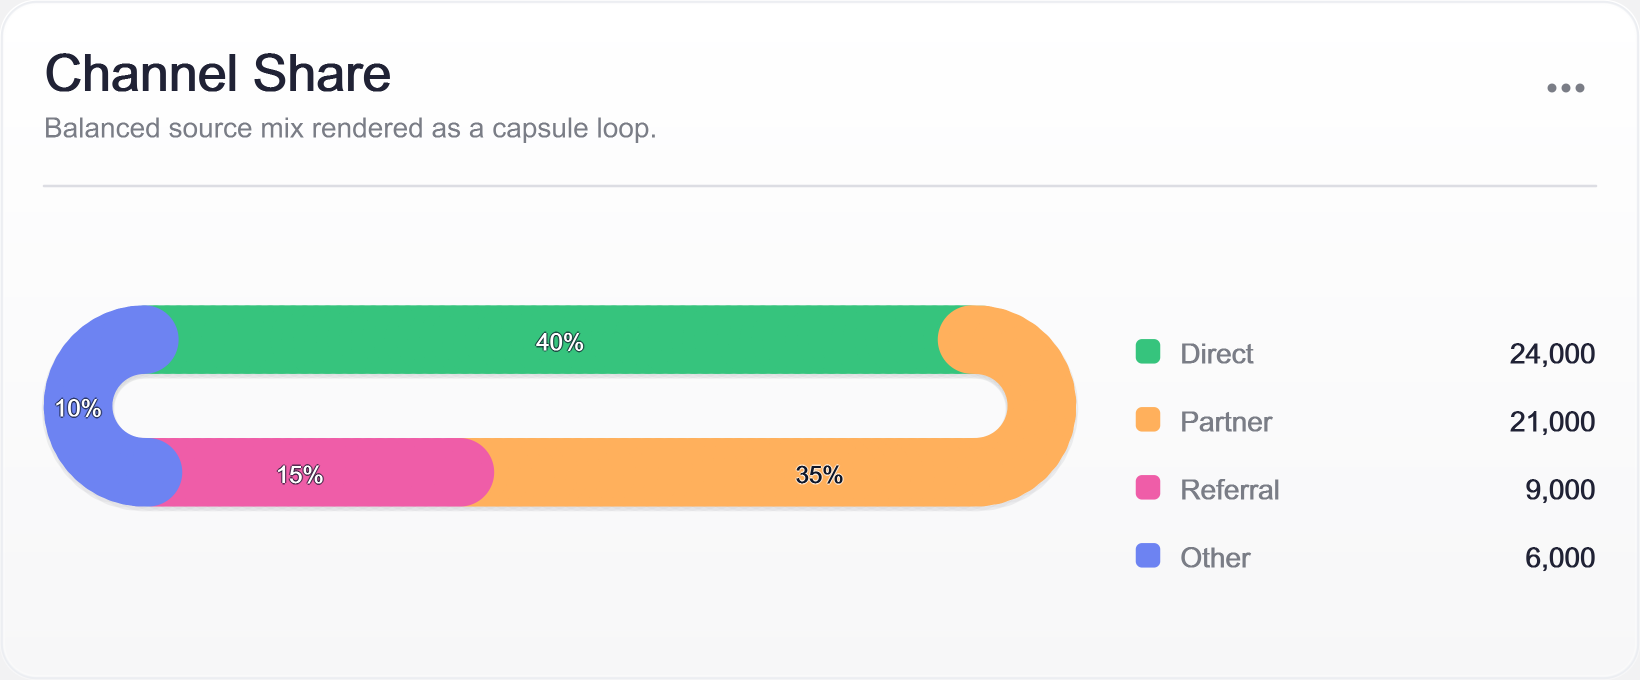
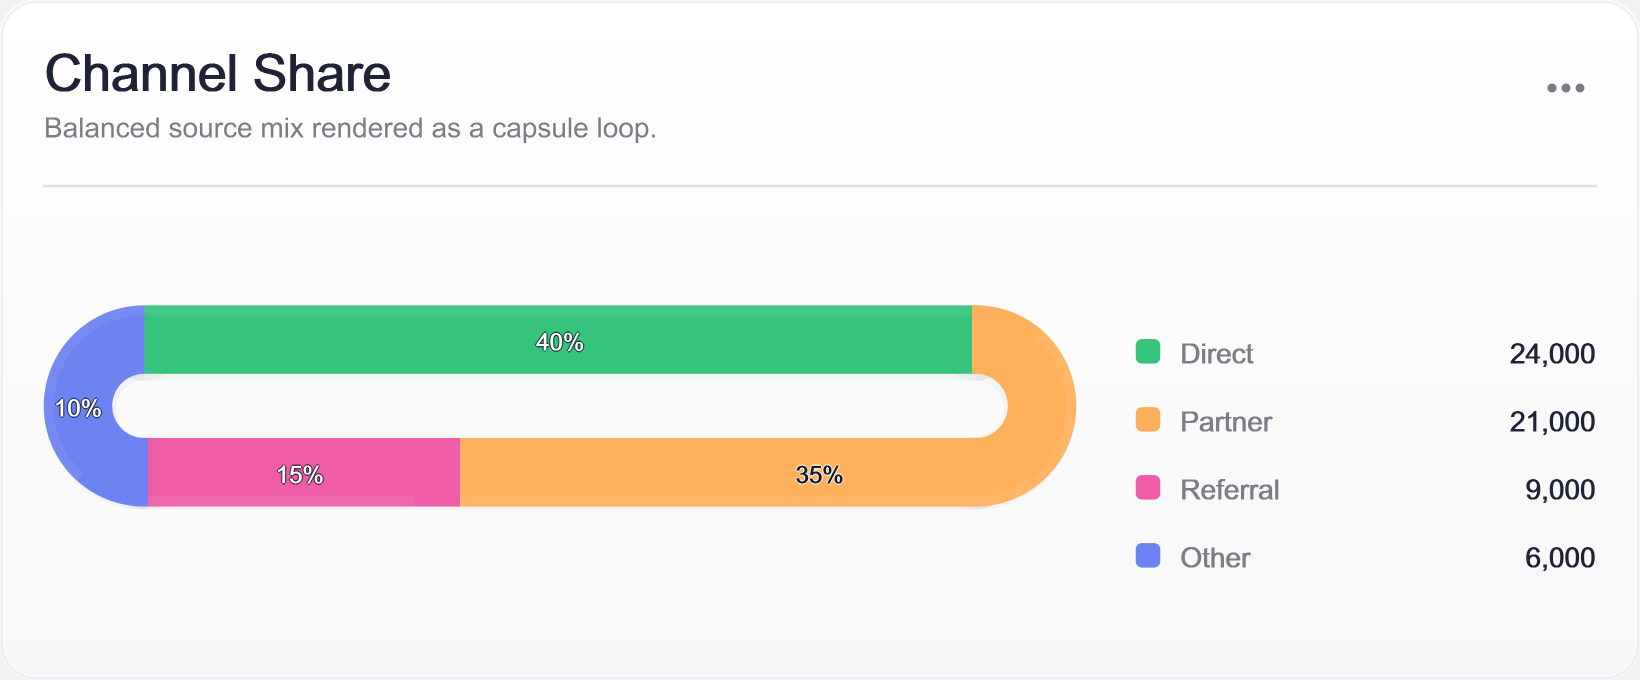
Polish capsule loop rendering

diff --git a/ChartForgeX/VisualBlocks/SvgVisualBlockRenderer.CapsuleLoop.cs b/ChartForgeX/VisualBlocks/SvgVisualBlockRenderer.CapsuleLoop.cs
@@ -36,10 +36,10 @@ public sealed partial class SvgVisualBlockRenderer {
 
     private static void RenderCapsuleTrack(SvgMarkupWriter writer, SegmentedMetricBlock card, double x, double y, double width, double height, double stroke) {
         var theme = card.Options.Theme;
-        var points = VisualBlockRendering.CapsuleLoopPoints(x, y, width, height, stroke, 0, 1, 360);
+        var path = CapsuleLoopPath(x, y, width, height, stroke, 0, 1);
         writer.StartElement("path")
             .Attribute("data-cfx-role", "segmented-metric-capsule-track-shadow")
-            .Attribute("d", PolylinePath(points))
+            .Attribute("d", path)
             .Attribute("fill", "none")
             .Attribute("stroke", theme.MutedText.WithAlpha(14).ToCss())
             .Attribute("stroke-width", stroke + 2)
@@ -49,7 +49,7 @@ public sealed partial class SvgVisualBlockRenderer {
             .EndEmptyElement().Line();
         writer.StartElement("path")
             .Attribute("data-cfx-role", "segmented-metric-capsule-track")
-            .Attribute("d", PolylinePath(points))
+            .Attribute("d", path)
             .Attribute("fill", "none")
             .Attribute("stroke", theme.CardBackground.WithAlpha(170).ToCss())
             .Attribute("stroke-width", stroke)
@@ -62,11 +62,12 @@ public sealed partial class SvgVisualBlockRenderer {
         var theme = card.Options.Theme;
         var slices = VisualBlockRendering.SegmentedSlices(card);
         foreach (var slice in slices) {
+            if (slice.Share <= 0) continue;
             var color = VisualBlockRendering.SegmentedItemColor(theme, slice.Item, slice.Index);
             var start = Math.Max(0, slice.Start - 0.002);
             var end = Math.Min(1, slice.End + 0.002);
-            var points = VisualBlockRendering.CapsuleLoopPoints(x, y, width, height, stroke, start, end, 360);
-            if (points.Count < 2) continue;
+            var path = CapsuleLoopPath(x, y, width, height, stroke, start, end);
+            if (path.Length == 0) continue;
             writer.StartElement("path")
                 .Attribute("data-cfx-role", "segmented-metric-capsule-segment")
                 .Attribute("data-cfx-label", slice.Item.Label)
@@ -74,11 +75,21 @@ public sealed partial class SvgVisualBlockRenderer {
                 .Attribute("data-cfx-share", slice.Share)
                 .Attribute("data-cfx-start", slice.Start)
                 .Attribute("data-cfx-end", slice.End)
-                .Attribute("d", PolylinePath(points))
+                .Attribute("d", path)
                 .Attribute("fill", "none")
                 .Attribute("stroke", color.ToCss())
                 .Attribute("stroke-width", stroke)
-                .Attribute("stroke-linecap", "round")
+                .Attribute("stroke-linecap", "butt")
+                .Attribute("stroke-linejoin", "round")
+                .EndEmptyElement().Line();
+            writer.StartElement("path")
+                .Attribute("data-cfx-role", "segmented-metric-capsule-segment-sheen")
+                .Attribute("data-cfx-label", slice.Item.Label)
+                .Attribute("d", path)
+                .Attribute("fill", "none")
+                .Attribute("stroke", VisualBlockRendering.CapsuleLoopSheenColor(color).ToCss())
+                .Attribute("stroke-width", VisualBlockRendering.CapsuleLoopSheenStroke(stroke))
+                .Attribute("stroke-linecap", "butt")
                 .Attribute("stroke-linejoin", "round")
                 .EndEmptyElement().Line();
             if (slice.Share >= 0.075) RenderCapsuleSegmentLabel(writer, card, slice, color, x, y, width, height, stroke);
@@ -108,17 +119,6 @@ public sealed partial class SvgVisualBlockRenderer {
             .EndElement().Line();
     }
 
-    private static string PolylinePath(IReadOnlyList<ChartPoint> points) {
-        if (points.Count == 0) return string.Empty;
-        var builder = new System.Text.StringBuilder();
-        for (var i = 0; i < points.Count; i++) {
-            builder.Append(i == 0 ? "M " : " L ");
-            builder.Append(F(points[i].X)).Append(' ').Append(F(points[i].Y));
-        }
-
-        return builder.ToString();
-    }
-
     private static void RenderCapsuleLegend(SvgMarkupWriter writer, SegmentedMetricBlock card, double x, double y, double width, double height) {
         var theme = card.Options.Theme;
         var rowHeight = Math.Max(26, Math.Min(34, height / Math.Max(1, card.Items.Count)));
@@ -137,4 +137,25 @@ public sealed partial class SvgVisualBlockRenderer {
 
         writer.EndElement().Line();
     }
+
+    private static string CapsuleLoopPath(double x, double y, double width, double height, double stroke, double start, double end) {
+        var parts = VisualBlockRendering.CapsuleLoopParts(x, y, width, height, stroke, start, end);
+        if (parts.Count == 0) return string.Empty;
+        var builder = new System.Text.StringBuilder();
+        var first = parts[0].StartPoint;
+        builder.Append("M ").Append(F(first.X)).Append(' ').Append(F(first.Y));
+        foreach (var part in parts) {
+            if (part.Kind == CapsuleLoopPartKind.Line) {
+                builder.Append(" L ").Append(F(part.EndPoint.X)).Append(' ').Append(F(part.EndPoint.Y));
+            } else {
+                var sweep = Math.Abs(part.EndAngle - part.StartAngle);
+                builder.Append(" A ").Append(F(part.Radius)).Append(' ').Append(F(part.Radius)).Append(" 0 ")
+                    .Append(sweep > Math.PI ? "1" : "0").Append(" 1 ")
+                    .Append(F(part.EndPoint.X)).Append(' ').Append(F(part.EndPoint.Y));
+            }
+        }
+
+        return builder.ToString();
+    }
+
 }

diff --git a/ChartForgeX/VisualBlocks/VisualBlockRendering.cs b/ChartForgeX/VisualBlocks/VisualBlockRendering.cs
@@ -478,6 +478,50 @@ internal static partial class VisualBlockRendering {
         return new ChartPoint(left + Math.Cos(leftAngle) * radius, centerY + Math.Sin(leftAngle) * radius);
     }
 
+    public static IReadOnlyList<CapsuleLoopPart> CapsuleLoopParts(double x, double y, double width, double height, double stroke, double start, double end) {
+        start = Math.Max(0, Math.Min(1, start));
+        end = Math.Max(0, Math.Min(1, end));
+        var parts = new List<CapsuleLoopPart>();
+        if (width <= stroke || height <= stroke || end <= start) return parts;
+        var radius = Math.Max(1, (height - stroke) / 2);
+        var left = x + height / 2;
+        var right = x + Math.Max(height / 2, width - height / 2);
+        var top = y + stroke / 2;
+        var bottom = y + Math.Max(stroke / 2, height - stroke / 2);
+        var centerY = y + height / 2;
+        var straight = Math.Max(0, right - left);
+        var arc = Math.PI * radius;
+        var total = straight * 2 + arc * 2;
+        var boundaries = new[] { 0, straight / total, (straight + arc) / total, (straight + arc + straight) / total, 1 };
+        for (var i = 0; i < 4; i++) {
+            var a = Math.Max(start, boundaries[i]);
+            var b = Math.Min(end, boundaries[i + 1]);
+            if (b <= a) continue;
+            parts.Add(CapsuleLoopPartFromRange(i, a * total, b * total, left, right, top, bottom, centerY, radius, straight, arc));
+        }
+
+        return parts;
+    }
+
+    private static CapsuleLoopPart CapsuleLoopPartFromRange(int index, double startDistance, double endDistance, double left, double right, double top, double bottom, double centerY, double radius, double straight, double arc) {
+        if (index == 0) return CapsuleLoopPart.Line(new ChartPoint(left + startDistance, top), new ChartPoint(left + endDistance, top));
+        if (index == 1) {
+            var startAngle = -Math.PI / 2 + (startDistance - straight) / radius;
+            var endAngle = -Math.PI / 2 + (endDistance - straight) / radius;
+            return CapsuleLoopPart.Arc(new ChartPoint(right + Math.Cos(startAngle) * radius, centerY + Math.Sin(startAngle) * radius), new ChartPoint(right + Math.Cos(endAngle) * radius, centerY + Math.Sin(endAngle) * radius), right, centerY, radius, startAngle, endAngle);
+        }
+
+        if (index == 2) {
+            var startOffset = startDistance - straight - arc;
+            var endOffset = endDistance - straight - arc;
+            return CapsuleLoopPart.Line(new ChartPoint(right - startOffset, bottom), new ChartPoint(right - endOffset, bottom));
+        }
+
+        var leftStartAngle = Math.PI / 2 + (startDistance - straight - arc - straight) / radius;
+        var leftEndAngle = Math.PI / 2 + (endDistance - straight - arc - straight) / radius;
+        return CapsuleLoopPart.Arc(new ChartPoint(left + Math.Cos(leftStartAngle) * radius, centerY + Math.Sin(leftStartAngle) * radius), new ChartPoint(left + Math.Cos(leftEndAngle) * radius, centerY + Math.Sin(leftEndAngle) * radius), left, centerY, radius, leftStartAngle, leftEndAngle);
+    }
+
     public static string ShortSegmentLabel(string value) {
         var start = value.LastIndexOf('(');
         var end = value.LastIndexOf(')');
@@ -491,6 +535,12 @@ internal static partial class VisualBlockRendering {
 
     public static ChartColor CapsuleLoopLabelHalo(ChartColor foreground) =>
         ChartColorMath.TextOnBackground(foreground, 0.70).WithAlpha(112);
+
+    public static ChartColor CapsuleLoopSheenColor(ChartColor color) =>
+        ChartColorMath.Blend(color, ChartColor.White, 0.28).WithAlpha(58);
+
+    public static double CapsuleLoopSheenStroke(double stroke) =>
+        Math.Max(2.4, stroke * 0.14);
 
     public static double WorkloadRatio(WorkloadListRow row) => SegmentRatio(row.Value, row.Maximum);
 

diff --git a/ChartForgeX/VisualBlocks/VisualBlockRendering.SegmentedLayouts.cs b/ChartForgeX/VisualBlocks/VisualBlockRendering.SegmentedLayouts.cs
@@ -214,6 +214,36 @@ internal readonly struct SegmentedStackSegment {
     public double Share { get; }
 }
 
+internal enum CapsuleLoopPartKind {
+    Line,
+    Arc
+}
+
+internal readonly struct CapsuleLoopPart {
+    private CapsuleLoopPart(CapsuleLoopPartKind kind, ChartPoint startPoint, ChartPoint endPoint, double centerX, double centerY, double radius, double startAngle, double endAngle) {
+        Kind = kind;
+        StartPoint = startPoint;
+        EndPoint = endPoint;
+        CenterX = centerX;
+        CenterY = centerY;
+        Radius = radius;
+        StartAngle = startAngle;
+        EndAngle = endAngle;
+    }
+
+    public static CapsuleLoopPart Line(ChartPoint startPoint, ChartPoint endPoint) => new CapsuleLoopPart(CapsuleLoopPartKind.Line, startPoint, endPoint, 0, 0, 0, 0, 0);
+    public static CapsuleLoopPart Arc(ChartPoint startPoint, ChartPoint endPoint, double centerX, double centerY, double radius, double startAngle, double endAngle) => new CapsuleLoopPart(CapsuleLoopPartKind.Arc, startPoint, endPoint, centerX, centerY, radius, startAngle, endAngle);
+
+    public CapsuleLoopPartKind Kind { get; }
+    public ChartPoint StartPoint { get; }
+    public ChartPoint EndPoint { get; }
+    public double CenterX { get; }
+    public double CenterY { get; }
+    public double Radius { get; }
+    public double StartAngle { get; }
+    public double EndAngle { get; }
+}
+
 internal readonly struct SegmentedCapsuleLayout {
     public SegmentedCapsuleLayout(double footerHeight, double bottom, bool legendRight, double legendWidth, double ringWidth, double ringHeight, double stroke, double ringX, double ringY, double pathWidth, double pathHeight, double legendX, double legendY, double legendHeight) {
         FooterHeight = footerHeight;

diff --git a/ChartForgeX/VisualBlocks/PngVisualBlockRenderer.CapsuleLoop.cs b/ChartForgeX/VisualBlocks/PngVisualBlockRenderer.CapsuleLoop.cs
@@ -1,5 +1,4 @@
 using System;
-using System.Collections.Generic;
 using System.Globalization;
 using ChartForgeX.Primitives;
 using ChartForgeX.Raster;
@@ -28,20 +27,19 @@ public sealed partial class PngVisualBlockRenderer {
 
     private static void DrawCapsuleTrack(RgbaCanvas canvas, SegmentedMetricBlock card, double x, double y, double width, double height, double stroke) {
         var theme = card.Options.Theme;
-        var points = VisualBlockRendering.CapsuleLoopPoints(x, y, width, height, stroke, 0, 1, 180);
-        DrawCapsuleLoopStroke(canvas, OffsetPoints(points, 0, 1.4), theme.MutedText.WithAlpha(14), stroke + 2);
-        DrawCapsuleLoopStroke(canvas, points, theme.CardBackground.WithAlpha(170), stroke);
+        DrawCapsuleLoopStroke(canvas, x, y + 1.4, width, height, stroke + 2, 0, 1, theme.MutedText.WithAlpha(14), RasterLineCap.Round);
+        DrawCapsuleLoopStroke(canvas, x, y, width, height, stroke, 0, 1, theme.CardBackground.WithAlpha(170), RasterLineCap.Round);
     }
 
     private static void DrawCapsuleSegments(RgbaCanvas canvas, SegmentedMetricBlock card, double x, double y, double width, double height, double stroke) {
         var theme = card.Options.Theme;
         foreach (var slice in VisualBlockRendering.SegmentedSlices(card)) {
+            if (slice.Share <= 0) continue;
             var color = VisualBlockRendering.SegmentedItemColor(theme, slice.Item, slice.Index);
             var start = Math.Max(0, slice.Start - 0.002);
             var end = Math.Min(1, slice.End + 0.002);
-            var points = VisualBlockRendering.CapsuleLoopPoints(x, y, width, height, stroke, start, end, 180);
-            if (points.Count < 2) continue;
-            DrawCapsuleLoopStroke(canvas, points, color, stroke);
+            DrawCapsuleLoopStroke(canvas, x, y, width, height, stroke, start, end, color, RasterLineCap.Butt);
+            DrawCapsuleLoopStroke(canvas, x, y, width, height, VisualBlockRendering.CapsuleLoopSheenStroke(stroke), start, end, VisualBlockRendering.CapsuleLoopSheenColor(color), RasterLineCap.Butt);
             if (slice.Share >= 0.075) DrawCapsuleSegmentLabel(canvas, slice, color, x, y, width, height, stroke);
         }
     }
@@ -62,15 +60,14 @@ public sealed partial class PngVisualBlockRenderer {
         DrawAlignedText(canvas, label, labelX, labelY, labelWidth, VisualTextAlignment.Center, foreground, fontSize, true);
     }
 
-    private static IReadOnlyList<ChartPoint> OffsetPoints(IReadOnlyList<ChartPoint> points, double dx, double dy) {
-        var shifted = new ChartPoint[points.Count];
-        for (var i = 0; i < points.Count; i++) shifted[i] = new ChartPoint(points[i].X + dx, points[i].Y + dy);
-        return shifted;
-    }
-
-    private static void DrawCapsuleLoopStroke(RgbaCanvas canvas, IReadOnlyList<ChartPoint> points, ChartColor color, double thickness) {
-        for (var i = 1; i < points.Count; i++) {
-            canvas.DrawLine(points[i - 1].X, points[i - 1].Y, points[i].X, points[i].Y, color, thickness);
+    private static void DrawCapsuleLoopStroke(RgbaCanvas canvas, double x, double y, double width, double height, double stroke, double start, double end, ChartColor color, RasterLineCap lineCap) {
+        if (color.A == 0) return;
+        foreach (var part in VisualBlockRendering.CapsuleLoopParts(x, y, width, height, stroke, start, end)) {
+            if (part.Kind == CapsuleLoopPartKind.Line) {
+                canvas.DrawLine(part.StartPoint.X, part.StartPoint.Y, part.EndPoint.X, part.EndPoint.Y, color, stroke, lineCap);
+            } else {
+                canvas.DrawArc(part.CenterX, part.CenterY, part.Radius, part.StartAngle, part.EndAngle, color, stroke, lineCap);
+            }
         }
     }
 

diff --git a/ChartForgeX/Raster/RgbaCanvas.cs b/ChartForgeX/Raster/RgbaCanvas.cs
@@ -94,10 +94,14 @@ internal sealed partial class RgbaCanvas {
     }
 
     public void DrawArc(double cx, double cy, double radius, double startAngle, double endAngle, ChartColor color, double thickness) {
+        DrawArc(cx, cy, radius, startAngle, endAngle, color, thickness, RasterLineCap.Round);
+    }
+
+    internal void DrawArc(double cx, double cy, double radius, double startAngle, double endAngle, ChartColor color, double thickness, RasterLineCap lineCap) {
         var fullCircle = Math.Abs(endAngle - startAngle) >= Math.PI * 2 - 0.000001;
         var start = fullCircle ? 0 : NormalizeAngle(startAngle);
         var end = fullCircle ? Math.PI * 2 : NormalizeAngle(endAngle);
-        DrawArcPixels(cx * _scale, cy * _scale, radius * _scale, start, end, color, Math.Max(1, thickness * _scale));
+        DrawArcPixels(cx * _scale, cy * _scale, radius * _scale, start, end, color, Math.Max(1, thickness * _scale), lineCap);
     }
 
     public void FillPolygon(IReadOnlyList<ChartPoint> points, ChartColor color) {
@@ -464,7 +468,7 @@ internal sealed partial class RgbaCanvas {
         }
     }
 
-    private void DrawArcPixels(double cx, double cy, double radius, double startAngle, double endAngle, ChartColor color, double thickness) {
+    private void DrawArcPixels(double cx, double cy, double radius, double startAngle, double endAngle, ChartColor color, double thickness, RasterLineCap lineCap) {
         if (radius <= 0 || thickness <= 0 || color.A == 0) return;
         var strokeRadius = Math.Max(0.5, thickness / 2.0);
         var feather = 1.0;
@@ -488,7 +492,7 @@ internal sealed partial class RgbaCanvas {
             }
         }
 
-        if (!fullCircle) {
+        if (!fullCircle && lineCap == RasterLineCap.Round) {
             DrawSoftCirclePixels(cx + Math.Cos(startAngle) * radius, cy + Math.Sin(startAngle) * radius, strokeRadius, color);
             DrawSoftCirclePixels(cx + Math.Cos(endAngle) * radius, cy + Math.Sin(endAngle) * radius, strokeRadius, color);
         }

diff --git a/ChartForgeX/Raster/RgbaCanvas.Polyline.cs b/ChartForgeX/Raster/RgbaCanvas.Polyline.cs
@@ -21,6 +21,15 @@ internal sealed partial class RgbaCanvas {
         DrawPolyline(points, color, thickness, RasterLineCap.Round, RasterLineJoin.Round, null);
     }
 
+    internal void DrawLine(double x0, double y0, double x1, double y1, ChartColor color, double thickness, RasterLineCap lineCap) {
+        if (lineCap == RasterLineCap.Round) {
+            DrawLine(x0, y0, x1, y1, color, thickness);
+            return;
+        }
+
+        DrawLinePixelsButt(x0 * _scale, y0 * _scale, x1 * _scale, y1 * _scale, Math.Max(1, thickness * _scale), color);
+    }
+
     internal void DrawPolyline(IReadOnlyList<ChartPoint> points, ChartColor color, double thickness, RasterLineCap lineCap, RasterLineJoin lineJoin, IReadOnlyList<double>? dashArray) {
         if (points == null) throw new ArgumentNullException(nameof(points));
         if (points.Count < 2) return;

diff --git a/ChartForgeX.Tests/SmokeTests/VisualBlockReviewRegressionTests.cs b/ChartForgeX.Tests/SmokeTests/VisualBlockReviewRegressionTests.cs
@@ -17,6 +17,11 @@ internal static partial class SmokeTests {
         Assert(CountOccurrences(zeroFunnelSvg, "data-cfx-role=\"segmented-metric-funnel-bar\"") == 7, "SegmentedMetricBlock zero-total funnel columns should preserve caller supplied segment counts.");
         Assert(zeroFunnel.ToPng().Length > 64, "SegmentedMetricBlock zero-total funnel columns should render PNG output.");
 
+        var zeroSliceCapsule = SegmentedMetricBlock.Create(SegmentedMetricStyle.CapsuleLoop).WithTheme(ChartTheme.ReportLight()).WithSize(420, 220).AddItem("Used", 10).AddItem("Empty", 0);
+        var zeroSliceCapsuleSvg = zeroSliceCapsule.ToSvg("visual-block-segmented-zero-slice-capsule");
+        Assert(!zeroSliceCapsuleSvg.Contains("data-cfx-label=\"Empty\"", StringComparison.Ordinal), "SegmentedMetricBlock capsule loops should not render visible segments for zero-share items.");
+        Assert(zeroSliceCapsule.ToPng().Length > 64, "SegmentedMetricBlock capsule loops with zero-share items should still render PNG output.");
+
         var compactCompositionLegend = SegmentedMetricBlock.Create(SegmentedMetricStyle.CompositionStrip)
             .WithTheme(ChartTheme.ReportLight())
             .WithSize(360, 190)

diff --git a/ChartForgeX.Tests/SmokeTests/VisualPolishContractTests.cs b/ChartForgeX.Tests/SmokeTests/VisualPolishContractTests.cs
@@ -76,7 +76,7 @@ internal static partial class SmokeTests {
         Assert(topologyGeographicCalloutPrimitives.Contains("PreviewStatuses", StringComparison.Ordinal) && topologyGeographicCalloutPrimitives.Contains("LeaderPoints", StringComparison.Ordinal) && topologyGeographicCalloutPrimitives.Contains("StatusChips", StringComparison.Ordinal) && topologyGeographicCalloutPrimitives.Contains("AnchorHaloRadius", StringComparison.Ordinal) && topologyGeographicCalloutPrimitives.Contains("MiniTopologyPoints", StringComparison.Ordinal) && topologyGeographicCalloutPrimitives.Contains("TitleMaxLength", StringComparison.Ordinal) && topologyGeographicCalloutPrimitives.Contains("StatusChipTextFontSize", StringComparison.Ordinal) && topologySvgGeographicCallouts.Contains("TopologyGeographicCalloutPrimitives.PreviewStatuses", StringComparison.Ordinal) && topologyPngGeographicCallouts.Contains("TopologyGeographicCalloutPrimitives.PreviewStatuses", StringComparison.Ordinal), "SVG and PNG topology geographic callouts should share route, status, text, and geometry helpers.");
         Assert(routeStyles.Contains("DottedMapLeader", StringComparison.Ordinal) && svgDottedMap.Contains("ChartRouteVisualStyles.DottedMapLeader", StringComparison.Ordinal) && pngDottedMap.Contains("ChartRouteVisualStyles.DottedMapLeader", StringComparison.Ordinal), "SVG and PNG dotted-map leaders should use the same premium route visual style.");
         Assert(textHalo.Contains("ChartTextHaloLayer", StringComparison.Ordinal) && textHalo.Contains("SvgStrokeWidth", StringComparison.Ordinal) && pngText.Contains("ChartTextHalo.ReadableRasterLayers", StringComparison.Ordinal) && topologyPngPolish.Contains("ChartTextHalo.CompactRasterLayers", StringComparison.Ordinal) && topologySvgPolish.Contains("ChartTextHalo.SvgStrokeWidth", StringComparison.Ordinal), "SVG and PNG chart and topology labels should share reusable halo primitives.");
-        Assert(visualBlockRendering.Contains("SegmentedItemColor", StringComparison.Ordinal) && visualBlockRendering.Contains("CapsuleLoopPoints", StringComparison.Ordinal) && segmentedLayouts.Contains("CapsuleLoopLayout", StringComparison.Ordinal) && visualBlockRendering.Contains("SegmentedCapsuleLegendValue", StringComparison.Ordinal) && visualBlockRendering.Contains("CapsuleLoopLabelForeground", StringComparison.Ordinal) && segmentedSvgCapsule.Contains("VisualBlockRendering.SegmentedItemColor", StringComparison.Ordinal) && segmentedPngCapsule.Contains("VisualBlockRendering.SegmentedItemColor", StringComparison.Ordinal) && segmentedSvgCapsule.Contains("VisualBlockRendering.CapsuleLoopLayout", StringComparison.Ordinal) && segmentedPngCapsule.Contains("VisualBlockRendering.CapsuleLoopLayout", StringComparison.Ordinal) && segmentedSvgCapsule.Contains("VisualBlockRendering.CapsuleLoopPoints", StringComparison.Ordinal) && segmentedPngCapsule.Contains("VisualBlockRendering.CapsuleLoopPoints", StringComparison.Ordinal) && segmentedSvgCapsule.Contains("VisualBlockRendering.SegmentedCapsuleLegendValue", StringComparison.Ordinal) && segmentedPngCapsule.Contains("VisualBlockRendering.SegmentedCapsuleLegendValue", StringComparison.Ordinal) && segmentedSvgCapsule.Contains("VisualBlockRendering.CapsuleLoopLabelForeground", StringComparison.Ordinal) && segmentedPngCapsule.Contains("VisualBlockRendering.CapsuleLoopLabelForeground", StringComparison.Ordinal), "SVG and PNG segmented metric capsule loops should share color, layout, loop geometry, label, and legend value helpers.");
+        Assert(visualBlockRendering.Contains("SegmentedItemColor", StringComparison.Ordinal) && visualBlockRendering.Contains("CapsuleLoopParts", StringComparison.Ordinal) && segmentedLayouts.Contains("CapsuleLoopLayout", StringComparison.Ordinal) && visualBlockRendering.Contains("SegmentedCapsuleLegendValue", StringComparison.Ordinal) && visualBlockRendering.Contains("CapsuleLoopLabelForeground", StringComparison.Ordinal) && visualBlockRendering.Contains("CapsuleLoopSheenColor", StringComparison.Ordinal) && segmentedSvgCapsule.Contains("VisualBlockRendering.SegmentedItemColor", StringComparison.Ordinal) && segmentedPngCapsule.Contains("VisualBlockRendering.SegmentedItemColor", StringComparison.Ordinal) && segmentedSvgCapsule.Contains("VisualBlockRendering.CapsuleLoopLayout", StringComparison.Ordinal) && segmentedPngCapsule.Contains("VisualBlockRendering.CapsuleLoopLayout", StringComparison.Ordinal) && segmentedSvgCapsule.Contains("VisualBlockRendering.CapsuleLoopParts", StringComparison.Ordinal) && segmentedPngCapsule.Contains("VisualBlockRendering.CapsuleLoopParts", StringComparison.Ordinal) && segmentedSvgCapsule.Contains("VisualBlockRendering.SegmentedCapsuleLegendValue", StringComparison.Ordinal) && segmentedPngCapsule.Contains("VisualBlockRendering.SegmentedCapsuleLegendValue", StringComparison.Ordinal) && segmentedSvgCapsule.Contains("VisualBlockRendering.CapsuleLoopLabelForeground", StringComparison.Ordinal) && segmentedPngCapsule.Contains("VisualBlockRendering.CapsuleLoopLabelForeground", StringComparison.Ordinal) && segmentedSvgCapsule.Contains("VisualBlockRendering.CapsuleLoopSheenColor", StringComparison.Ordinal) && segmentedPngCapsule.Contains("VisualBlockRendering.CapsuleLoopSheenColor", StringComparison.Ordinal), "SVG and PNG segmented metric capsule loops should share color, layout, loop geometry, label, and legend value helpers.");
         Assert(segmentedLayouts.Contains("SegmentedHeaderLayout", StringComparison.Ordinal) && segmentedSvgChrome.Contains("VisualBlockRendering.SegmentedHeaderLayout", StringComparison.Ordinal) && segmentedPngChrome.Contains("VisualBlockRendering.SegmentedHeaderLayout", StringComparison.Ordinal), "SVG and PNG segmented metric headers should share badge, menu, text, and divider layout.");
         Assert(visualBlockRendering.Contains("SegmentedProgressValueText", StringComparison.Ordinal) && visualBlockRendering.Contains("SegmentedDeltaColor", StringComparison.Ordinal) && segmentedLayouts.Contains("SegmentedProgressRowsLayout", StringComparison.Ordinal) && segmentedLayouts.Contains("SegmentedProgressRowLayout", StringComparison.Ordinal) && segmentedLayouts.Contains("SegmentedProgressStripSegments", StringComparison.Ordinal) && segmentedSvgProgressRows.Contains("VisualBlockRendering.SegmentedProgressRowsLayout", StringComparison.Ordinal) && segmentedPngProgressRows.Contains("VisualBlockRendering.SegmentedProgressRowsLayout", StringComparison.Ordinal) && segmentedSvgProgressRows.Contains("VisualBlockRendering.SegmentedProgressRowLayout", StringComparison.Ordinal) && segmentedPngProgressRows.Contains("VisualBlockRendering.SegmentedProgressRowLayout", StringComparison.Ordinal) && segmentedSvgProgressRows.Contains("VisualBlockRendering.SegmentedProgressStripSegments", StringComparison.Ordinal) && segmentedPngProgressRows.Contains("VisualBlockRendering.SegmentedProgressStripSegments", StringComparison.Ordinal), "SVG and PNG segmented progress rows should share row layout, exact-value, semantic-delta, and repeated-segment geometry helpers.");
         Assert(visualBlockRendering.Contains("SegmentedStackSegments", StringComparison.Ordinal) && visualBlockRendering.Contains("ShortSegmentLabel", StringComparison.Ordinal) && segmentedLayouts.Contains("SegmentedCompositionLayout", StringComparison.Ordinal) && segmentedLayouts.Contains("SegmentedDistributionLayout", StringComparison.Ordinal) && segmentedLayouts.Contains("SegmentedDistributionRowLayout", StringComparison.Ordinal) && segmentedSvgComposition.Contains("VisualBlockRendering.SegmentedCompositionLayout", StringComparison.Ordinal) && segmentedPngComposition.Contains("VisualBlockRendering.SegmentedCompositionLayout", StringComparison.Ordinal) && segmentedSvgComposition.Contains("VisualBlockRendering.SegmentedStackSegments", StringComparison.Ordinal) && segmentedPngComposition.Contains("VisualBlockRendering.SegmentedStackSegments", StringComparison.Ordinal) && segmentedSvgDistribution.Contains("VisualBlockRendering.SegmentedDistributionLayout", StringComparison.Ordinal) && segmentedPngDistribution.Contains("VisualBlockRendering.SegmentedDistributionLayout", StringComparison.Ordinal) && segmentedSvgDistribution.Contains("VisualBlockRendering.SegmentedDistributionRowLayout", StringComparison.Ordinal) && segmentedPngDistribution.Contains("VisualBlockRendering.SegmentedDistributionRowLayout", StringComparison.Ordinal) && segmentedSvgDistribution.Contains("VisualBlockRendering.SegmentedStackSegments", StringComparison.Ordinal) && segmentedPngDistribution.Contains("VisualBlockRendering.SegmentedStackSegments", StringComparison.Ordinal), "SVG and PNG segmented metric strips should share stack geometry, composition/distribution layout, and row layout helpers.");